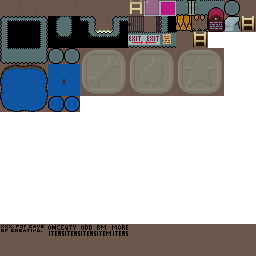
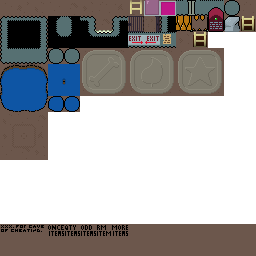
buried jigpiece by the shovel

Changed region(s): [[0.0, 0.4375, 0.1875, 0.625]]

diff --git a/src/game/battle/battle_mindcontrol.c b/src/game/battle/battle_mindcontrol.c
@@ -6,6 +6,8 @@
 
 #include "game/bellacopia.h"
 
+#define GROUNDY 150
+
 struct battle_mindcontrol {
   struct battle hdr;
   int choice;
@@ -14,6 +16,10 @@ struct battle_mindcontrol {
     int who; // My index in this list.
     int human; // 0 for CPU, or the input index.
     double skill; // 0..1, reverse of each other.
+    int srcx,srcy;
+    int frame;
+    uint8_t xform;
+    int dstx;
   } playerv[2];
 };
 
@@ -31,18 +37,27 @@ static void _mindcontrol_del(struct battle *battle) {
 static void player_init(struct battle *battle,struct player *player,int human,int face) {
   if (player==BATTLE->playerv) { // Left.
     player->who=0;
+    player->dstx=FBW/3;
   } else { // Right.
     player->who=1;
+    player->xform=EGG_XFORM_XREV;
+    player->dstx=(FBW*2)/3;
   }
   if (player->human=human) { // Human.
   } else { // CPU.
   }
   switch (face) {
     case NS_face_monster: {
+        player->srcx=0;
+        player->srcy=160;
       } break;
     case NS_face_dot: {
+        player->srcx=0;
+        player->srcy=64;
       } break;
     case NS_face_princess: {
+        player->srcx=0;
+        player->srcy=112;
       } break;
   }
 }
@@ -93,46 +108,25 @@ static void _mindcontrol_update(struct battle *battle,double elapsed) {
     player_update_common(battle,player,elapsed);
   }
 
-  //XXX Placeholder UI.
-  if ((g.input[0]&EGG_BTN_LEFT)&&!(g.pvinput[0]&EGG_BTN_LEFT)) { if (--(BATTLE->choice)<-1) BATTLE->choice=1; }
-  if ((g.input[0]&EGG_BTN_RIGHT)&&!(g.pvinput[0]&EGG_BTN_RIGHT)) { if (++(BATTLE->choice)>1) BATTLE->choice=-1; }
-  if ((battle->outcome<-1)&&(g.input[0]&EGG_BTN_SOUTH)&&!(g.pvinput[0]&EGG_BTN_SOUTH)) {
-    bm_sound(RID_sound_uiactivate);
-    battle->outcome=BATTLE->choice;
-  }
+  //XXX
+  if (g.input[0]&EGG_BTN_AUX2) battle->outcome=1;
 }
 
 /* Render player.
  */
  
 static void player_render(struct battle *battle,struct player *player) {
+  graf_decal_xform(&g.graf,player->dstx-24,GROUNDY-48,player->srcx+player->frame*48,player->srcy,48,48,player->xform);
 }
 
 /* Render.
  */
  
 static void _mindcontrol_render(struct battle *battle) {
-  graf_fill_rect(&g.graf,0,0,FBW,FBH,0x808080ff);
-  
-  // XXX Placeholder UI.
-  int y=FBH/3;
-  int boxh=20;
-  int boxw=20;
-  int y1=y+boxh+1;
-  int xv[3]={
-    (FBW>>2)-(boxw>>1),
-    (FBW>>1)-(boxw>>1),
-    ((FBW*3)>>2)-(boxw>>1),
-  };
-  graf_fill_rect(&g.graf,xv[0],y,boxw,boxh,0xff0000ff);
-  graf_fill_rect(&g.graf,xv[1],y,boxw,boxh,0x404040ff);
-  graf_fill_rect(&g.graf,xv[2],y,boxw,boxh,0x00ff00ff);
-  switch (BATTLE->choice) {
-    case -1: graf_fill_rect(&g.graf,xv[0],y1,boxw,boxh,0xffffffff); break;
-    case  0: graf_fill_rect(&g.graf,xv[1],y1,boxw,boxh,0xffffffff); break;
-    case  1: graf_fill_rect(&g.graf,xv[2],y1,boxw,boxh,0xffffffff); break;
-  }
-  
+  graf_fill_rect(&g.graf,0,0,FBW,FBH,0x80a0e0ff);
+  graf_fill_rect(&g.graf,0,GROUNDY,FBW,FBH-GROUNDY,0x105020ff);
+  graf_fill_rect(&g.graf,0,GROUNDY,FBW,1,0x000000ff);
+  graf_set_image(&g.graf,RID_image_battle_labyrinth2);
   player_render(battle,BATTLE->playerv+0);
   player_render(battle,BATTLE->playerv+1);
 }

diff --git a/src/game/modal/modal_arcade.c b/src/game/modal/modal_arcade.c
@@ -9,7 +9,7 @@
 #include "game/bellacopia.h"
 #include "game/battle/battle.h"
 
-#define PRESELECT_BATTLE NS_battle_seamonster
+#define PRESELECT_BATTLE NS_battle_mindcontrol
 
 #define ROWC 20 /* FBH / font height */
 #define KEY_REPEAT_INITIAL 0.250
@@ -236,7 +236,8 @@ static void arcade_cb_battle(struct modal *battle_modal,int outcome,void *userda
   if (outcome<0) MODAL->losec++;
   else if (outcome>0) MODAL->winc++;
   else MODAL->tiec++;
-  fprintf(stderr,"%s: outcome=%d. (w,l,t)=(%d,%d,%d)=%d\n",__func__,outcome,MODAL->winc,MODAL->losec,MODAL->tiec,MODAL->winc+MODAL->losec+MODAL->tiec);
+  // XXX Running log if you want it. Eventually we'll display this kind of thing in the main UI.
+  //fprintf(stderr,"%s: battle=%d outcome=%d. (w,l,t)=(%d,%d,%d)=%d\n",__func__,MODAL->battle,outcome,MODAL->winc,MODAL->losec,MODAL->tiec,MODAL->winc+MODAL->losec+MODAL->tiec);
   MODAL->outcome=outcome;
   struct label *label=arcade_label_by_id(modal,LABELID_OUTCOME);
   if (label) arcade_rewrite_label_outcome(modal,label);
@@ -244,7 +245,6 @@ static void arcade_cb_battle(struct modal *battle_modal,int outcome,void *userda
 }
  
 static void arcade_begin_game(struct modal *modal) {
-  fprintf(stderr,"%s battle=%d players=%d\n",__func__,MODAL->battle,MODAL->players);//TODO
   struct modal_args_battle args={
     .battle=MODAL->battle,
     .args={

diff --git a/src/game/inventory.c b/src/game/inventory.c
@@ -547,8 +547,18 @@ int game_get_item(int itemid,int quantity) {
    */
   if (itemid==NS_itemid_jigpiece) {
     if (!quantity) {
-      fprintf(stderr,"%s:%d:ERROR: Getting jigpiece but quantity (ie mapid) zero.\n",__FILE__,__LINE__);
-      return 0;
+      if (GRP(hero)->sprc>=1) {
+        struct sprite *hero=GRP(hero)->sprv[0];
+        struct map *map=map_by_sprite_position(hero->x,hero->y,hero->z);
+        if (map) {
+          quantity=map->rid;
+        }
+      }
+      if (!quantity) {
+        fprintf(stderr,"%s:%d:ERROR: Getting jigpiece but quantity (ie mapid) zero, and failed to default per hero.\n",__FILE__,__LINE__);
+        return 0;
+      }
+      game_report_item_quantity_add(NS_itemid_jigpiece,1);
     }
     if (store_get_jigstore(quantity)) return 0; // Already have it.
     if (!store_add_jigstore(quantity)) return 0; // Shouldn't fail.

diff --git a/src/game/shared_symbols.h b/src/game/shared_symbols.h
@@ -526,6 +526,7 @@
 #define NS_fld_caught_seamonster 93
 #define NS_fld_tundra_secret_entrance 94
 #define NS_fld_goblin_secret_entrance 95
+#define NS_fld_bt5 96 /* Jigpiece in caves by the shovel. */
 
 /* "fld16" are 16 unsigned bits each.
  */

diff --git a/README.md b/README.md
@@ -38,6 +38,9 @@ Requires [Egg](https://github.com/aksommerville/egg2) to build.
 - [x] Goblins' Jail Key must not appear until you've been kidnapped. And make the Princess say something funny if you improbably enter her cell before being kidnapped.
 - - ...actually, I think it's ok to leave it here.
 - [x] Move the goblin secret entrance and hide it like the tundra one.
+- [x] Bury a jigpiece by where you get the shovel.
+- - [x] Does the `buriedtreasure` POI work for jigpiece? ...does now
+- [ ] Record time at Any% clear and 100% clear.
 
 - For exploration some time in the uncertain future.
 - [ ] Can we randomize the statuemaze like we did cryptmsg?
@@ -187,3 +190,14 @@ Before the first release, validate and clean up this list. And if in-game credit
 - - The Garden of Earthly Delights; by Hieronymus Bosch; c. 1504; oil on panel, Museo del Prado
 - Erudition Contest text. TODO Not acquired yet.
 
+## Morally Questionable
+
+I'm keeping this game appropriate for children in my opinion, like all of Dot Vine's games.
+Record everything that someone might object to on moral grounds, so we can declare it all up front.
+
+- Witchcraft. No getting around that!
+- Stealing Contest.
+- Election rigging.
+- Shaking Contest (champagne).
+- Casino.
+- Strangling Contest.
